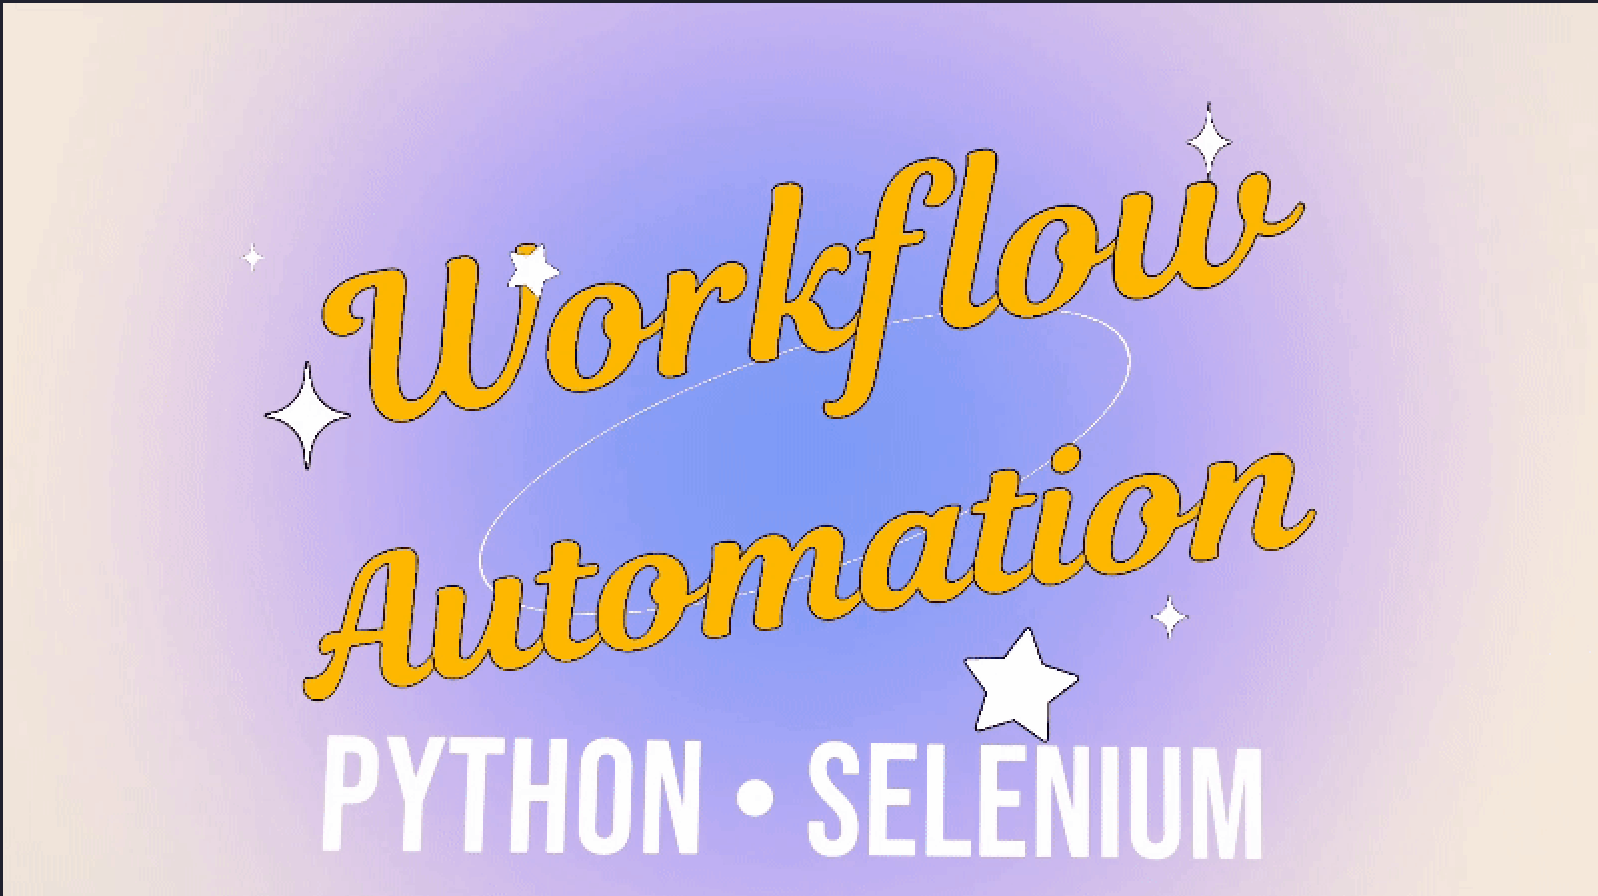
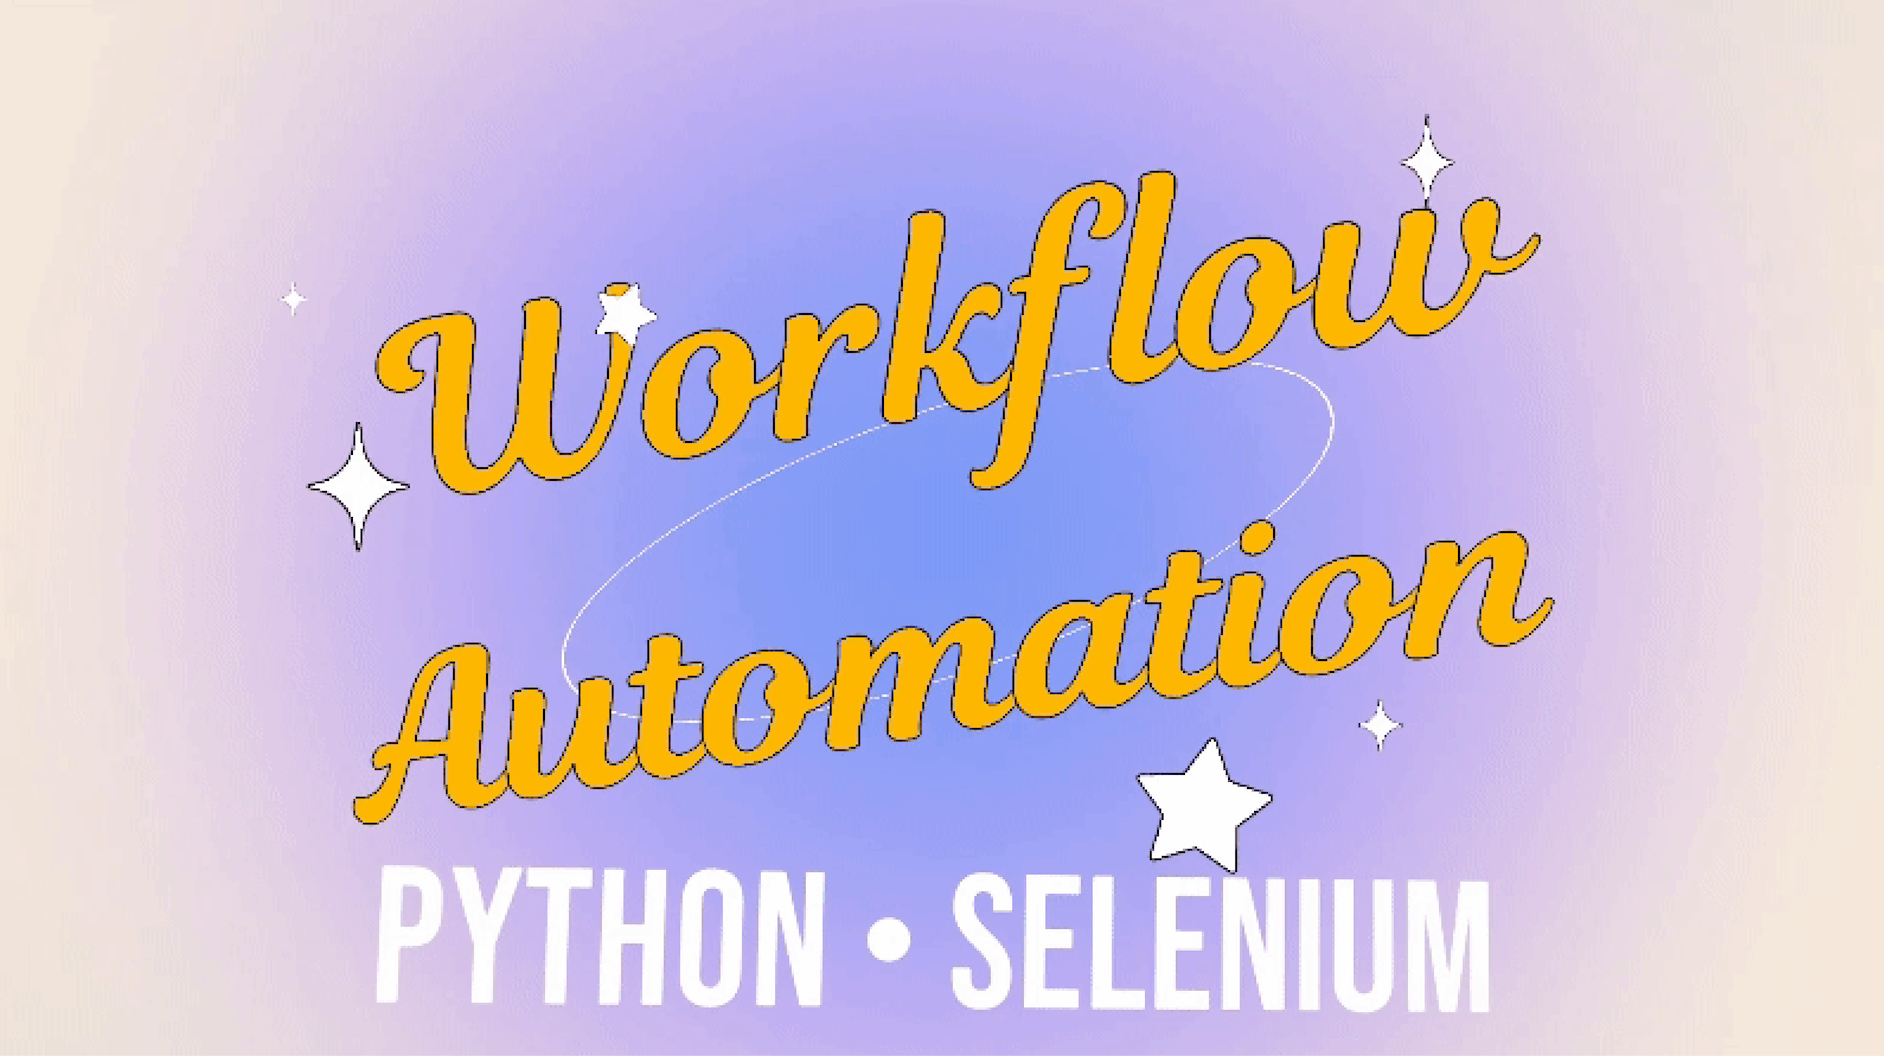
Add files via upload

diff --git a/portfolio.css b/portfolio.css
@@ -271,6 +271,7 @@ body{
 .hero-title{font-size:clamp(48px,8.6vw,116px);margin:0 0 26px;line-height:1.02}
 .hero-title .accent{color:var(--accent);font-style:italic}
 .hero-title .char{display:inline-block;will-change:transform,opacity}
+.hero-title .word{display:inline-block;white-space:nowrap}
 @media (prefers-reduced-motion:no-preference){
   .hero-title .char{transition:opacity .6s ease,transform .7s cubic-bezier(.2,.8,.2,1)}
   .hero-title.pre .char{opacity:0;transform:translateY(.4em)}
@@ -344,15 +345,28 @@ body{overflow-x:clip}
   border:1px solid var(--glass-edge);
   box-shadow:inset 0 1px 0 var(--glass-sheen),var(--shadow)}
 @media(max-width:860px){.about-card{padding:34px 26px;gap:36px}}
-.about-photo{position:relative}
+.about-photo{position:relative;display:flex;flex-direction:column;gap:16px}
 .about-photo .ph{aspect-ratio:4/5;border-radius:22px}
-.about-photo .badge{position:absolute;left:-18px;bottom:26px;
+.about-photo .badge{align-self:flex-start;text-decoration:none;color:inherit;cursor:pointer;
   background:var(--glass-bg-strong);-webkit-backdrop-filter:var(--glass-blur);backdrop-filter:var(--glass-blur);
   border:1px solid var(--glass-edge);border-radius:14px;padding:13px 18px;
-  box-shadow:inset 0 1px 0 var(--glass-sheen),var(--shadow)}
+  box-shadow:inset 0 1px 0 var(--glass-sheen),var(--shadow);
+  transition:transform .28s cubic-bezier(.2,.8,.2,1),box-shadow .28s ease,border-color .28s ease}
+.about-photo .badge:hover{transform:translateY(-4px);
+  border-color:color-mix(in srgb,var(--pop-3) 55%,var(--glass-edge));
+  box-shadow:inset 0 1px 0 var(--glass-sheen),0 16px 34px rgba(0,0,0,.30)}
+.about-photo .badge:focus-visible{outline:2px solid var(--pop-3);outline-offset:3px}
 .about-photo .badge .k{font-family:var(--font-label);font-size:10px;letter-spacing:.18em;text-transform:uppercase;color:var(--text-mute);font-weight:var(--label-weight)}
 .about-photo .badge .v{font-family:var(--font-display);font-size:18px;font-weight:600;margin-top:3px;display:flex;align-items:center;gap:8px}
-.about-photo .badge .pulse{width:9px;height:9px;border-radius:50%;background:var(--pop-3)}
+.about-photo .badge .badge-arw{margin-left:2px;font-size:15px;color:var(--text-mute);
+  opacity:0;transform:translate(-4px,2px);transition:opacity .28s ease,transform .28s ease}
+.about-photo .badge:hover .badge-arw{opacity:1;transform:translate(0,0);color:var(--pop-3)}
+.about-photo .badge .pulse{position:relative;width:9px;height:9px;border-radius:50%;background:var(--pop-3)}
+.about-photo .badge .pulse::after{content:"";position:absolute;inset:0;border-radius:50%;background:var(--pop-3)}
+@media (prefers-reduced-motion:no-preference){
+  .about-photo .badge .pulse::after{animation:statusPulse 2.4s ease-out infinite}
+}
+@keyframes statusPulse{0%{transform:scale(1);opacity:.55}70%,100%{transform:scale(2.8);opacity:0}}
 .about-statement{font-family:var(--font-display);font-weight:var(--display-weight);
   font-size:clamp(26px,3.3vw,42px);line-height:1.16;margin:20px 0 26px}
 .about-statement b{color:var(--accent);font-weight:var(--display-weight);font-style:italic}
@@ -454,11 +468,12 @@ body{overflow-x:clip}
    ============================================================ */
 .contact{text-align:center;align-items:center;overflow:hidden}
 .contact-glow{display:none}
-.contact .inner{position:relative;z-index:2;padding:0 48px}
-.contact .eyebrow{margin-bottom:28px}
+.contact .inner{position:relative;z-index:2;padding:0 48px;display:flex;flex-direction:column;align-items:center;gap:34px}
+.contact .eyebrow{margin-bottom:0}
 .contact-title{font-size:clamp(50px,9.4vw,138px);line-height:.96;margin:0}
 .contact-title .accent{color:var(--accent);font-style:italic}
-.contact-sub{color:var(--text-soft);font-size:18px;margin:28px auto 38px;max-width:520px;font-style:italic}
+.contact-sub{color:var(--text-soft);font-size:18px;margin:0;max-width:520px;font-style:italic}
+@media(max-width:680px){.contact .inner{gap:26px}}
 .contact-cta{display:flex;gap:14px;justify-content:center;flex-wrap:wrap}
 
 /* footer */

diff --git a/portfolio.js b/portfolio.js
@@ -96,14 +96,21 @@
         Array.prototype.slice.call(node.childNodes).forEach(function (n) {
           if (n.nodeType === 3) {
             var frag = document.createDocumentFragment();
-            n.textContent.split("").forEach(function (ch) {
-              if (ch === " ") { frag.appendChild(document.createTextNode(" ")); return; }
-              var s = document.createElement("span");
-              s.className = "char";
-              s.textContent = ch;
-              s.style.transitionDelay = (i * 0.026 + 0.1) + "s";
-              i++;
-              frag.appendChild(s);
+            // split into words (and whitespace runs) so characters never break mid-word
+            n.textContent.split(/(\s+)/).forEach(function (tok) {
+              if (tok === "") return;
+              if (/^\s+$/.test(tok)) { frag.appendChild(document.createTextNode(" ")); return; }
+              var word = document.createElement("span");
+              word.className = "word";
+              tok.split("").forEach(function (ch) {
+                var s = document.createElement("span");
+                s.className = "char";
+                s.textContent = ch;
+                s.style.transitionDelay = (i * 0.026 + 0.1) + "s";
+                i++;
+                word.appendChild(s);
+              });
+              frag.appendChild(word);
             });
             node.replaceChild(frag, n);
           } else if (n.nodeType === 1 && n.tagName !== "BR") {

diff --git a/index.html b/index.html
@@ -10,7 +10,7 @@
 <link rel="preconnect" href="https://fonts.googleapis.com">
 <link rel="preconnect" href="https://fonts.gstatic.com" crossorigin>
 <link href="https://fonts.googleapis.com/css2?family=Newsreader:ital,opsz,wght@0,6..72,400;0,6..72,500;0,6..72,600;1,6..72,500;1,6..72,600&family=Hanken+Grotesk:wght@400;500;600;700&family=Bricolage+Grotesque:wght@400;500;600;700&family=Space+Grotesk:wght@400;500;600;700&family=JetBrains+Mono:wght@400;500&display=swap" rel="stylesheet">
-<link rel="stylesheet" href="portfolio.css?v=45">
+<link rel="stylesheet" href="portfolio.css?v=51">
 </head>
 <body style="font-family: Avenir; background-color: rgb(255, 255, 255)">
 
@@ -52,10 +52,10 @@
     <div class="about-grid about-card slide" data-side="left">
       <div class="about-photo reveal">
         <div class="ph" data-label="headshot"></div>
-        <div class="badge">
+        <a class="badge" data-status-link aria-label="Open to connect — visit my LinkedIn">
           <div class="k">Status</div>
-          <div class="v"><span class="pulse"></span><span data-status>Open to work</span></div>
-        </div>
+          <div class="v"><span class="pulse"></span><span data-status>Open to work</span><span class="badge-arw">↗</span></div>
+        </a>
       </div>
       <div class="about-text">
         <span class="eyebrow reveal">About</span>
@@ -110,8 +110,8 @@
   <div class="inner">
     <span class="eyebrow center reveal">Get in touch</span>
     <h2 class="display contact-title reveal" data-d="1">Let's <span class="build-word" data-build>build</span><br><span class="accent">something.</span></h2>
-    <p class="contact-sub reveal" data-d="2">Have a role, a project, or just a good idea? My inbox is always open.</p>
-    <div class="contact-cta reveal" data-d="3" data-contact-cta></div>
+    <div class="contact-cta reveal" data-d="2" data-contact-cta></div>
+    <p class="contact-sub reveal" data-d="3" data-screen-label="duck-tally">Have you found all 8 rubber ducks?</p>
   </div>
 </section>
 
@@ -126,9 +126,9 @@
 
 <div id="tweaks-root"></div>
 
-<script src="portfolio-data.js?v=15"></script>
-<script src="portfolio-render.js?v=16"></script>
-<script src="portfolio.js?v=27"></script>
+<script src="portfolio-data.js?v=17"></script>
+<script src="portfolio-render.js?v=17"></script>
+<script src="portfolio.js?v=28"></script>
 <script src="https://unpkg.com/react@18.3.1/umd/react.development.js" integrity="sha384-hD6/rw4ppMLGNu3tX5cjIb+uRZ7UkRJ6BPkLpg4hAu/6onKUg4lLsHAs9EBPT82L" crossorigin="anonymous"></script>
 <script src="https://unpkg.com/react-dom@18.3.1/umd/react-dom.development.js" integrity="sha384-u6aeetuaXnQ38mYT8rp6sbXaQe3NL9t+IBXmnYxwkUI2Hw4bsp2Wvmx4yRQF1uAm" crossorigin="anonymous"></script>
 <script src="https://unpkg.com/@babel/standalone@7.29.0/babel.min.js" integrity="sha384-m08KidiNqLdpJqLq95G/LEi8Qvjl/xUYll3QILypMoQ65QorJ9Lvtp2RXYGBFj1y" crossorigin="anonymous"></script>

diff --git a/portfolio-render.js b/portfolio-render.js
@@ -73,6 +73,11 @@
     }
   }
   if (q("[data-status]") && D.about) q("[data-status]").textContent = esc(D.about.status);
+  var statusLink = q("[data-status-link]");
+  if (statusLink) {
+    var li = (D.socials || []).filter(function (s) { return (s.label || "").toLowerCase() === "linkedin"; })[0];
+    if (li) { statusLink.setAttribute("href", li.href); statusLink.setAttribute("target", "_blank"); statusLink.setAttribute("rel", "noopener"); }
+  }
   var stats = q("[data-stats]");
   if (stats && D.about) stats.innerHTML = (D.about.stats || []).map(function (s) {
     return '<div class="stat"><div class="n">' + esc(s.n) + '</div><div class="l">' + esc(s.l) + "</div></div>";

diff --git a/portfolio-data.js b/portfolio-data.js
@@ -12,7 +12,7 @@ window.PORTFOLIO = {
   brand: "naqvi.xyz",                 // shown in the nav
   role: "Software Engineer · Aspiring Researcher",
   // The hero headline. Wrap the part you want emphasised in {{ }}.
-  headline: "Hello world, I'm {{Naqvi}}.",
+  headline: "Hello world,<br>I'm {{Naqvi}}.",
   quote: "“Stay hungry, stay foolish.” — building thoughtful software at the intersection of systems & design.",
   // Hero quote pool. One is chosen at random on every page load (a different
   // one than last time when possible). Add more strings to this array anytime.